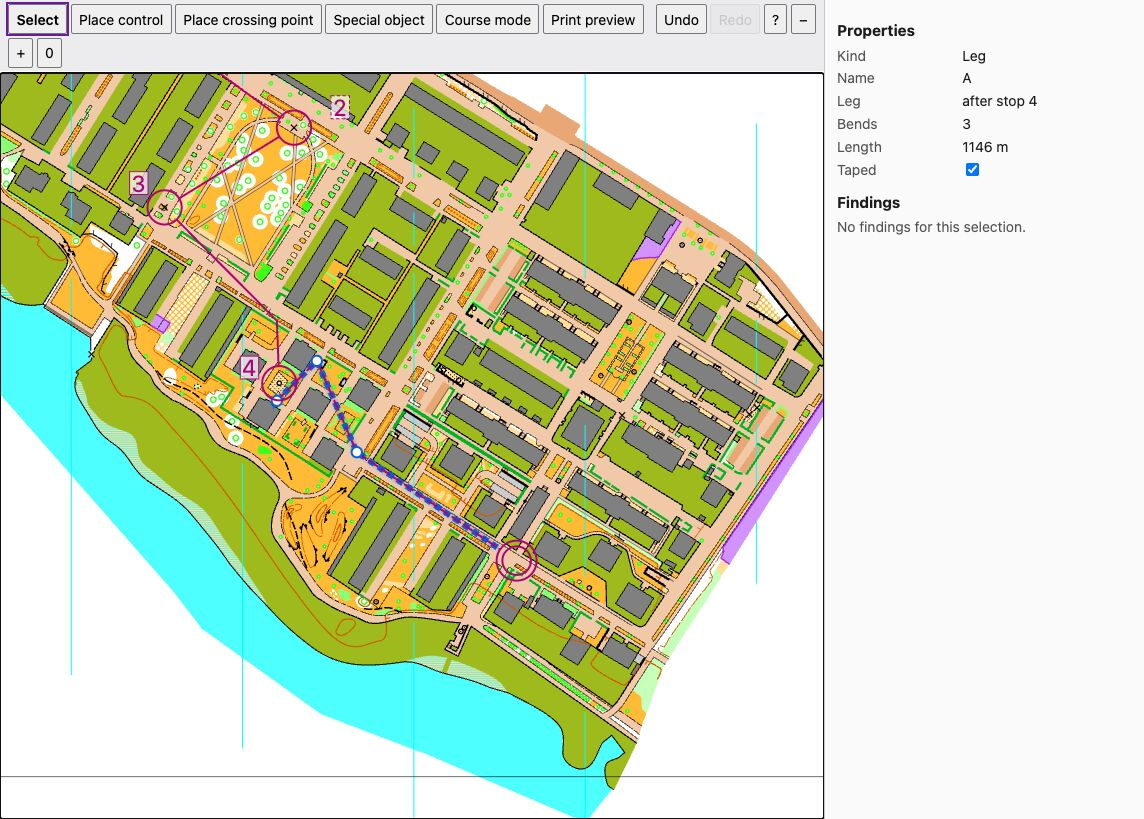
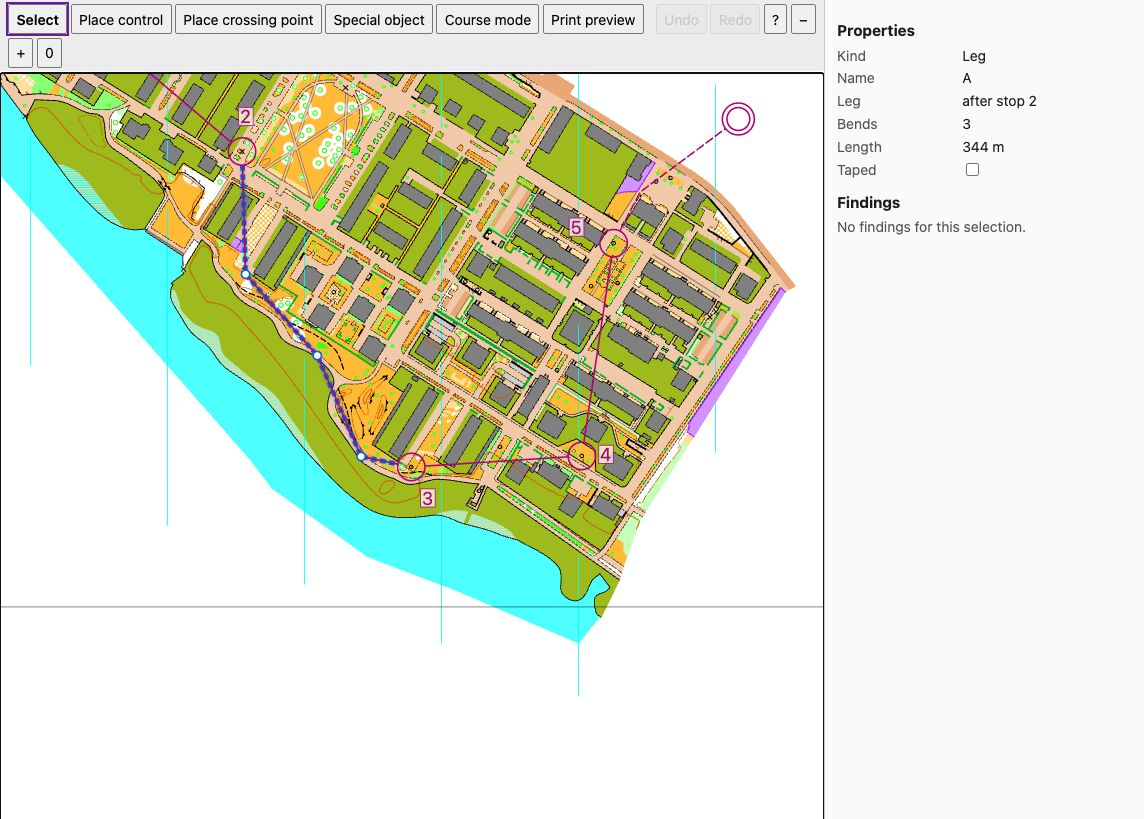
docs(manual): new editor pictures on the straight-legged course, bends only for illustration
All Rummelsburg pictures show the new course in both languages. The picture for
bends sets bends and a taped leg on a working copy and says so in the caption.
The findings pictures show three angle hints from moved controls in a copy. The
section on bends says a leg is straight until you bend it.

Claude-Session: https://claude.ai/code/session_01BW25Yt2PSSZSQgZDdWkfxQ

diff --git a/docs/manual/de.md b/docs/manual/de.md
@@ -330,7 +330,7 @@ Ein Editor gehört zu einem Projekt. Willst du ein zweites öffnen, startest du 
 
 ![Der Editor mit Bahn A auf der Karte Rummelsburger Bucht: links der Baum der Veranstaltung, in der Mitte die Karte mit der Bahn, rechts die Eigenschaften der Bahn, unten die Statusleiste mit den Befundzahlen.](images/editor-overview-de.jpg)
 
-*Der Editor mit Bahn A (vier Posten, 1146 m) auf der Sprintkarte Rummelsburger Bucht. Deutsche Oberfläche. Karte: Remo Madella, MOO Challenge Berlin 2025, siehe examples/rummelsburger-bucht/ATTRIBUTION.txt.*
+*Der Editor mit Bahn A (fünf Posten, 1226 m) auf der Sprintkarte Rummelsburger Bucht. Deutsche Oberfläche. Karte: Remo Madella, MOO Challenge Berlin 2025, siehe examples/rummelsburger-bucht/ATTRIBUTION.txt.*
 
 ### Die Karte
 
@@ -433,11 +433,11 @@ die Datei, wie sie war, und eine Meldung nennt den Grund.
 
 ### Strecken und Knicke
 
-Eine Strecke ist die Linie zwischen zwei Posten. Klicke sie mit dem Auswahlwerkzeug an, um sie zu wählen.
+Eine Strecke ist die gerade Linie von Posten zu Posten, bis du sie knickst. Klicke sie mit dem Auswahlwerkzeug an, um sie zu wählen.
 
-![Eine gewählte Strecke mit drei Knicken, in Blau mit weißen Punkten gezeichnet, und die Eigenschaften der Strecke mit gesetztem Kästchen „Abgeflaggt“.](images/editor-legs-de.jpg)
+![Eine gewählte Strecke mit drei Knicken, in Blau mit weißen Punkten gezeichnet, daneben eine gestrichelte abgeflaggte Strecke, und die Eigenschaften der gewählten Strecke.](images/editor-legs-de.jpg)
 
-*Eine Strecke, mit dem Werkzeug „Auswählen“ gewählt. Die Strecke von Posten 34 zum Ziel hat drei Knicke (die weißen Punkte) und ist abgeflaggt (die gestrichelte Linie). Die Eigenschaften zeigen die Zahl der Knicke und das Kästchen „Abgeflaggt“. Karte: Remo Madella, MOO Challenge Berlin 2025, siehe examples/rummelsburger-bucht/ATTRIBUTION.txt.*
+*Eine Strecke, mit dem Werkzeug „Auswählen“ gewählt. Die Strecke von Posten 32 zu Posten 33 hat drei Knicke (die weißen Punkte); die Eigenschaften zeigen ihre Zahl und das Kästchen „Abgeflaggt“. Die gestrichelte Strecke von Posten 35 ins Ziel ist abgeflaggt und hat einen Knick. Diese Knicke habe ich nur für das Bild gesetzt: Strecken sind standardmäßig gerade, und die Bahn des Beispiels hat keinen Knick. Karte: Remo Madella, MOO Challenge Berlin 2025, siehe examples/rummelsburger-bucht/ATTRIBUTION.txt.*
 
 - **Knick einfügen.** Ziehe an der Linie der gewählten Strecke. Dort, wo du loslässt, entsteht ein Knick.
 - **Knick verschieben oder löschen.** Ziehe einen Knick, um ihn zu verschieben. Ein Klick wählt ihn, Entf löscht ihn.
@@ -454,7 +454,7 @@ automatisch gesetzt, und das Projekt speichert noch keine Lage dafür.
 
 ![Bahnmodus mit Bahn A: die Postennummern neben ihren Kreisen, das Feld 2 mit gestricheltem Rand.](images/editor-numbers-de.jpg)
 
-*Bahnmodus. Die Nummern stehen neben ihren Kreisen. Das Feld 2 hat einen gestrichelten Rand, weil das Programm es gesetzt hat und das Projekt speichert keine Lage dafür. Die Felder 3 und 4 haben eine gesetzte Lage. Karte: Remo Madella, MOO Challenge Berlin 2025, siehe examples/rummelsburger-bucht/ATTRIBUTION.txt.*
+*Bahnmodus. Die Nummern stehen neben ihren Kreisen. Das Feld 2 hat einen gestrichelten Rand, weil das Programm es gesetzt hat und das Projekt speichert keine Lage dafür. Die Felder 1, 3, 4 und 5 haben eine gesetzte Lage. Karte: Remo Madella, MOO Challenge Berlin 2025, siehe examples/rummelsburger-bucht/ATTRIBUTION.txt.*
 
 - **Ziehen.** Ziehe im Bahnmodus ein Nummernfeld an eine andere Stelle. Beim Loslassen rechnet der Editor den Ort in
   Richtung und Abstand vom Kreis um und speichert beides für diese Bahn.
@@ -474,9 +474,9 @@ Wähle einen Posten. Seine Eigenschaften führen die Spalten C bis H auf, jede z
 Klappe eine Spalte auf, dann siehst du ihre Symbole als Raster aus Zeichen, jedes mit Nummer und Text in der Sprache
 des Programms. Die Kartenobjekte im Umkreis von 3 mm stehen unter Spalte D.
 
-![Die Eigenschaften eines Postens mit aufgeklappter Spalte D als Raster aus Symbolen, gewählt ist 4.9 Einzelbaum.](images/editor-description-de.jpg)
+![Die Eigenschaften eines Postens mit aufgeklappter Spalte D als Raster aus Symbolen, gewählt ist 5.20 Denkmal.](images/editor-description-de.jpg)
 
-*Posten 33 mit offener Spalte D. Jedes Symbol zeigt Nummer und Namen; gewählt ist 4.9 Einzelbaum. Spalte C bleibt zugeklappt und zeigt ihren aktuellen Wert. Karte: Remo Madella, MOO Challenge Berlin 2025, siehe examples/rummelsburger-bucht/ATTRIBUTION.txt.*
+*Posten 33 mit offener Spalte D. Jedes Symbol zeigt Nummer und Namen; gewählt ist 5.20 Denkmal. Spalte C bleibt zugeklappt und zeigt ihren aktuellen Wert. Karte: Remo Madella, MOO Challenge Berlin 2025, siehe examples/rummelsburger-bucht/ATTRIBUTION.txt.*
 
 - **Wählen.** Klicke ein Symbol an oder gehe mit den Pfeiltasten hin (Pos1 und Ende springen zum ersten und letzten)
   und drücke Enter. Tippst du eine Nummer wie `1.3`, springt die Auswahl dorthin. Das Symbol in Gebrauch ist
@@ -553,9 +553,9 @@ Eigenschaften das Score-Fenster.
 
 Eine halbe Sekunde nach jeder Änderung führt der Editor dieselbe Prüfung aus wie `check` und zeigt das Ergebnis.
 
-![Die Befunde von Bahn A in den Eigenschaften: eine Warnung und drei Hinweise, jeweils mit dem Knopf Akzeptieren, und Markierungen an den Strecken der Karte.](images/editor-findings-course-de.jpg)
+![Die Befunde von Bahn A in den Eigenschaften: drei Hinweise, jeweils mit dem Knopf Akzeptieren, und Markierungen an den Strecken der Karte.](images/editor-findings-course-de.jpg)
 
-*Die Befunde von Bahn A. Die Warnung sagt, dass eine gerade Strecke das Sperrgebiet vom vorigen Bild quert. Die drei Hinweise betreffen Winkel. Jeder Befund hat „Akzeptieren...“, und an jeder betroffenen Strecke sitzt eine Markierung. Karte: Remo Madella, MOO Challenge Berlin 2025, siehe examples/rummelsburger-bucht/ATTRIBUTION.txt.*
+*Die Befunde von Bahn A. Die drei Hinweise betreffen Winkel: zwei fast geradeaus laufende Posten und ein spitzer Winkel. Für dieses Bild habe ich zwei Posten der Beispielbahn verschoben, die Beispielbahn selbst hat keinen Befund. Jeder Befund hat „Akzeptieren...“, und an jeder betroffenen Strecke sitzt eine Markierung. Karte: Remo Madella, MOO Challenge Berlin 2025, siehe examples/rummelsburger-bucht/ATTRIBUTION.txt.*
 
 ![Die Befundschublade über der rechten Seite des Editors mit den offenen Befunden und den Regeln, die nicht geprüft wurden.](images/editor-findings-de.jpg)
 

diff --git a/docs/manual/en.md b/docs/manual/en.md
@@ -317,7 +317,7 @@ One editor belongs to one project. To open a second project, start a second edit
 
 ![The editor with course A on the map Rummelsburger Bucht: the event tree on the left, the map with the course in the middle, the properties of the course on the right, the status bar with the finding counts below.](images/editor-overview-en.jpg)
 
-*The editor with course A (four controls, 1146 m) on the sprint map Rummelsburger Bucht. English interface. Map: Remo Madella, MOO Challenge Berlin 2025, see examples/rummelsburger-bucht/ATTRIBUTION.txt.*
+*The editor with course A (five controls, 1226 m) on the sprint map Rummelsburger Bucht. English interface. Map: Remo Madella, MOO Challenge Berlin 2025, see examples/rummelsburger-bucht/ATTRIBUTION.txt.*
 
 ### The map
 
@@ -417,11 +417,11 @@ why.
 
 ### Legs and bends
 
-A leg is the line between two stops. Click it with the "Select" tool to choose it.
+A leg is the straight line from control to control until you bend it. Click it with the "Select" tool to choose it.
 
-![A selected leg with three bends, drawn in blue with white dots, and the properties of the leg with the box Taped ticked.](images/editor-legs-en.jpg)
+![A selected leg with three bends, drawn in blue with white dots, next to a dashed taped leg, and the properties of the selected leg.](images/editor-legs-en.jpg)
 
-*A leg chosen with the "Select" tool. The leg from control 34 to the finish has three bends (the white dots) and is taped (the dashed line). The properties show the number of bends and the box "Taped". Map: Remo Madella, MOO Challenge Berlin 2025, see examples/rummelsburger-bucht/ATTRIBUTION.txt.*
+*A leg chosen with the "Select" tool. The leg from control 32 to control 33 has three bends (the white dots); the properties show their number and the box "Taped". The dashed leg from control 35 to the finish is taped and has one bend. I set these bends only for the picture: legs are straight by default, and the course of the example has no bend. Map: Remo Madella, MOO Challenge Berlin 2025, see examples/rummelsburger-bucht/ATTRIBUTION.txt.*
 
 - **Add a bend.** Drag the line of the chosen leg. A bend appears where you let go.
 - **Move or delete a bend.** Drag a bend to move it. A click on a bend chooses it, and Delete removes it.
@@ -469,7 +469,7 @@ the project stores no position for it yet.
 
 ![Course mode with course A: the control numbers beside their circles, the box 2 with a dashed outline.](images/editor-numbers-en.jpg)
 
-*Course mode. The numbers sit beside their circles. The box 2 has a dashed outline, so the program placed it and the project stores no position for it. The boxes 3 and 4 have a placed position. Map: Remo Madella, MOO Challenge Berlin 2025, see examples/rummelsburger-bucht/ATTRIBUTION.txt.*
+*Course mode. The numbers sit beside their circles. The box 2 has a dashed outline, so the program placed it and the project stores no position for it. The boxes 1, 3, 4 and 5 have a placed position. Map: Remo Madella, MOO Challenge Berlin 2025, see examples/rummelsburger-bucht/ATTRIBUTION.txt.*
 
 - **Drag.** In course mode, drag a number box to another place. On release the editor turns the place into a
   direction and a gap from the circle and stores both for this course.
@@ -488,9 +488,9 @@ Select a control. Its properties list the columns C to H, each folded and showin
 to see its symbols as a grid of icons, each with its number and text in the language of the program. The map objects
 within 3 mm of the control are listed below column D.
 
-![The properties of a control with column D opened as a grid of symbols and 4.9 lone tree picked.](images/editor-description-en.jpg)
+![The properties of a control with column D opened as a grid of symbols and 5.20 statue picked.](images/editor-description-en.jpg)
 
-*Control 33 with column D open. Each symbol shows its number and name; 4.9 lone tree is picked. Column C stays folded and shows its current value. Map: Remo Madella, MOO Challenge Berlin 2025, see examples/rummelsburger-bucht/ATTRIBUTION.txt.*
+*Control 33 with column D open. Each symbol shows its number and name; 5.20 statue is picked. Column C stays folded and shows its current value. Map: Remo Madella, MOO Challenge Berlin 2025, see examples/rummelsburger-bucht/ATTRIBUTION.txt.*
 
 - **Pick.** Click a symbol, or move with the arrow keys (Home and End jump to the first and last) and press Enter.
   Typing a number such as `1.3` jumps to it. The symbol in use is marked, and the focus stays on the pick.
@@ -530,9 +530,9 @@ The list comes from freemapper-core, so every symbol you can pick can also be wr
 
 Half a second after each change the editor runs the same check as `check` and shows the result.
 
-![The findings of course A in the properties: a warning and three hints, each with the button Accept, and markers on the map legs.](images/editor-findings-course-en.jpg)
+![The findings of course A in the properties: three hints, each with the button Accept, and markers on the map legs.](images/editor-findings-course-en.jpg)
 
-*The findings of course A. The warning says that a straight leg crosses the out-of-bounds area from the previous picture. The three hints are about angles. Each finding has "Accept...", and a marker sits on each leg it concerns. Map: Remo Madella, MOO Challenge Berlin 2025, see examples/rummelsburger-bucht/ATTRIBUTION.txt.*
+*The findings of course A. The three hints are about angles: two controls where the course runs almost straight on and one acute angle. I moved two controls of the example course for this picture; the example course itself has no finding. Each finding has "Accept...", and a marker sits on each leg it concerns. Map: Remo Madella, MOO Challenge Berlin 2025, see examples/rummelsburger-bucht/ATTRIBUTION.txt.*
 
 ![The findings drawer over the right side of the editor with the open findings and the rules that were not checked.](images/editor-findings-en.jpg)
 

diff --git a/CHANGELOG.md b/CHANGELOG.md
@@ -9,6 +9,8 @@ Hier stehen alle wichtigen Änderungen an freemapper-courseplan, die neueste zue
 ### Geändert
 
 - `check` prüft die gerade Linie zwischen zwei Posten nicht mehr gegen Sperrgebiete. Die Warnung „Die gerade Strecke quert das Sperrgebiet …“ entfällt, denn WKB26 B 7.2.6 betrifft die Laufroute, und eine Luftlinie über ein Sperrgebiet ist normal. Die Regeln `wkb2026.leg.through_forbidden` und `wkb2026.leg.through_forbidden_sprint` bleiben im Regelprofil und stehen jetzt in `check --all` unter den nicht geprüften Regeln, bis es die Routenanalyse gibt. Hast du einen Befund dieser Regeln akzeptiert, bleibt die Ausnahme gültig und erscheint höchstens unter den Ausnahmen ohne Befund. Siehe ADR 0080.
+- Das Beispiel „Rummelsburger Bucht“ hat jetzt fünf Posten und nur gerade Strecken, ohne Knickpunkte und ohne markierte Strecke. Eine Strecke ist die Luftlinie von Posten zu Posten, Knickpunkte sind die Ausnahme. IOF-XML, Purple-Pen-Datei, Ausgaben und beide READMEs folgen der neuen Bahn.
+- Die Bildschirmfotos im Handbuch zeigen die neue Bahn. Das Bild zu den Knicken hat Knicke nur zur Anschauung, die Bildunterschrift sagt das. Die Befundbilder zeigen drei Winkelhinweise, die durch verschobene Posten in einer Arbeitskopie entstanden. Der Abschnitt „Strecken und Knicke“ sagt jetzt, dass eine Strecke gerade ist, bis du sie knickst.
 
 ## [0.14.1] - 2026-11-12
 

diff --git a/CHANGELOG.en.md b/CHANGELOG.en.md
@@ -9,6 +9,8 @@ This file lists all notable changes to freemapper-courseplan, newest first. The 
 ### Changed
 
 - `check` no longer tests the straight line between two controls against out-of-bounds areas. The warning "the straight leg crosses ..." is gone: WKB26 B 7.2.6 is about the running route, and a straight line over an out-of-bounds area is normal. The rules `wkb2026.leg.through_forbidden` and `wkb2026.leg.through_forbidden_sprint` stay in the rule profile and now appear in `check --all` among the rules that were not checked, until the route analysis exists. If you accepted a finding of these rules, the exception stays valid and shows at most among the acceptances that match no finding. See ADR 0080.
+- The example "Rummelsburger Bucht" now has five controls and only straight legs, with no bends and no marked leg. A leg is the straight line from control to control, and bends are the exception. IOF XML, the Purple Pen file, the outputs and both READMEs follow the new course.
+- The screenshots in the manual show the new course. The picture for bends has bends for illustration only, and its caption says so. The findings pictures show three angle hints that came from moved controls in a working copy. The section "Legs and bends" now says that a leg is straight until you bend it.
 
 ## [0.14.1] - 2026-11-12
 
